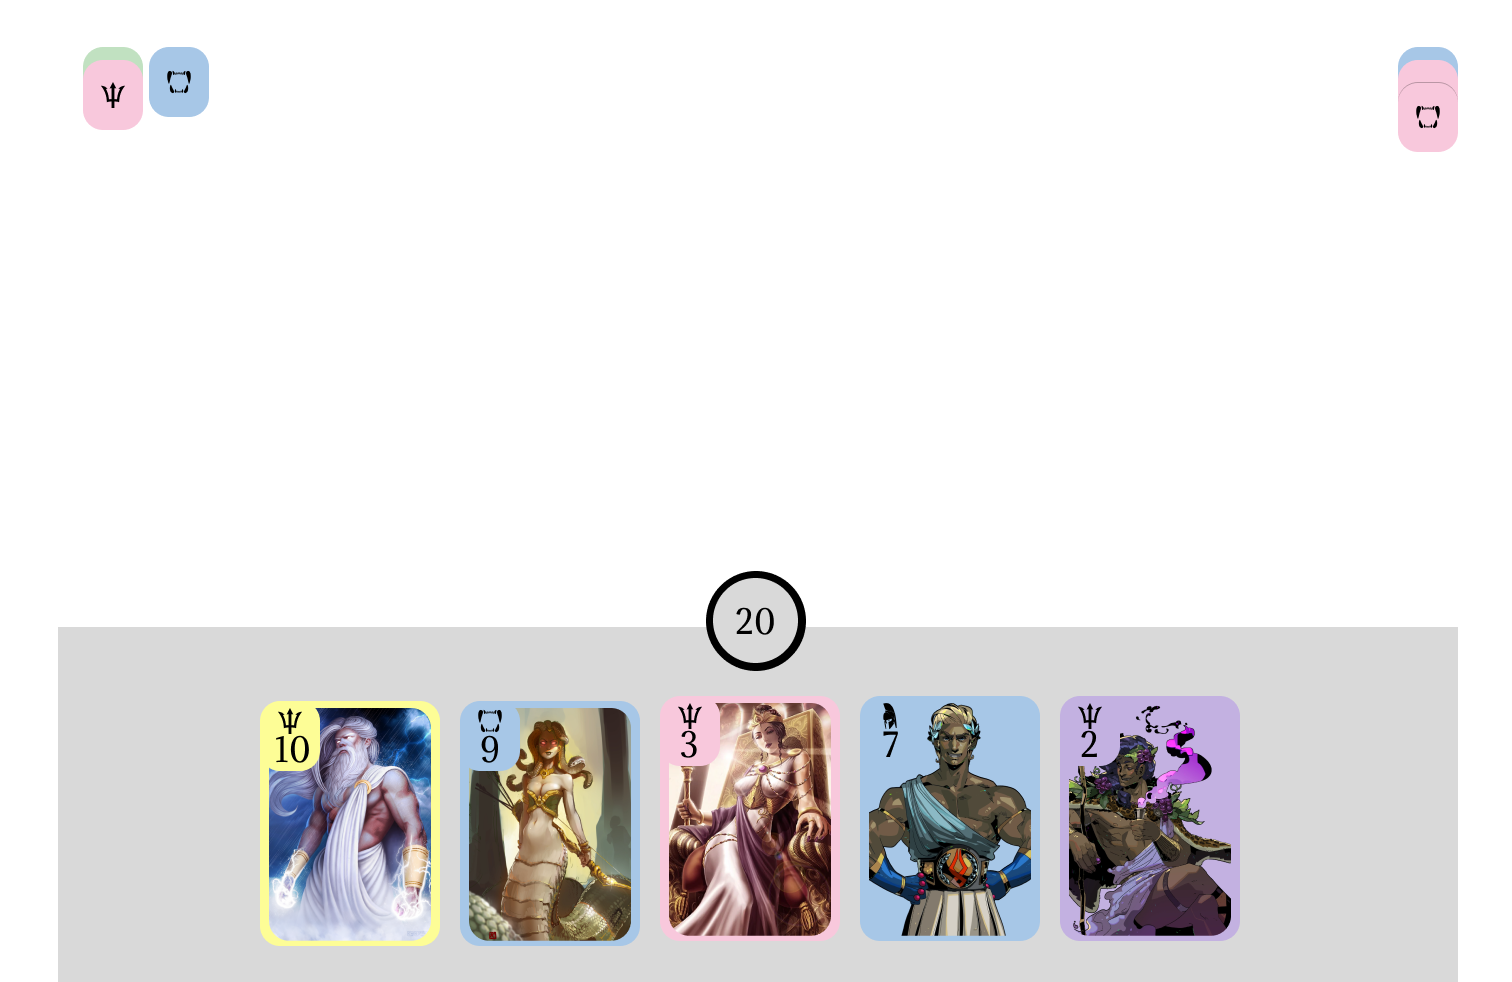
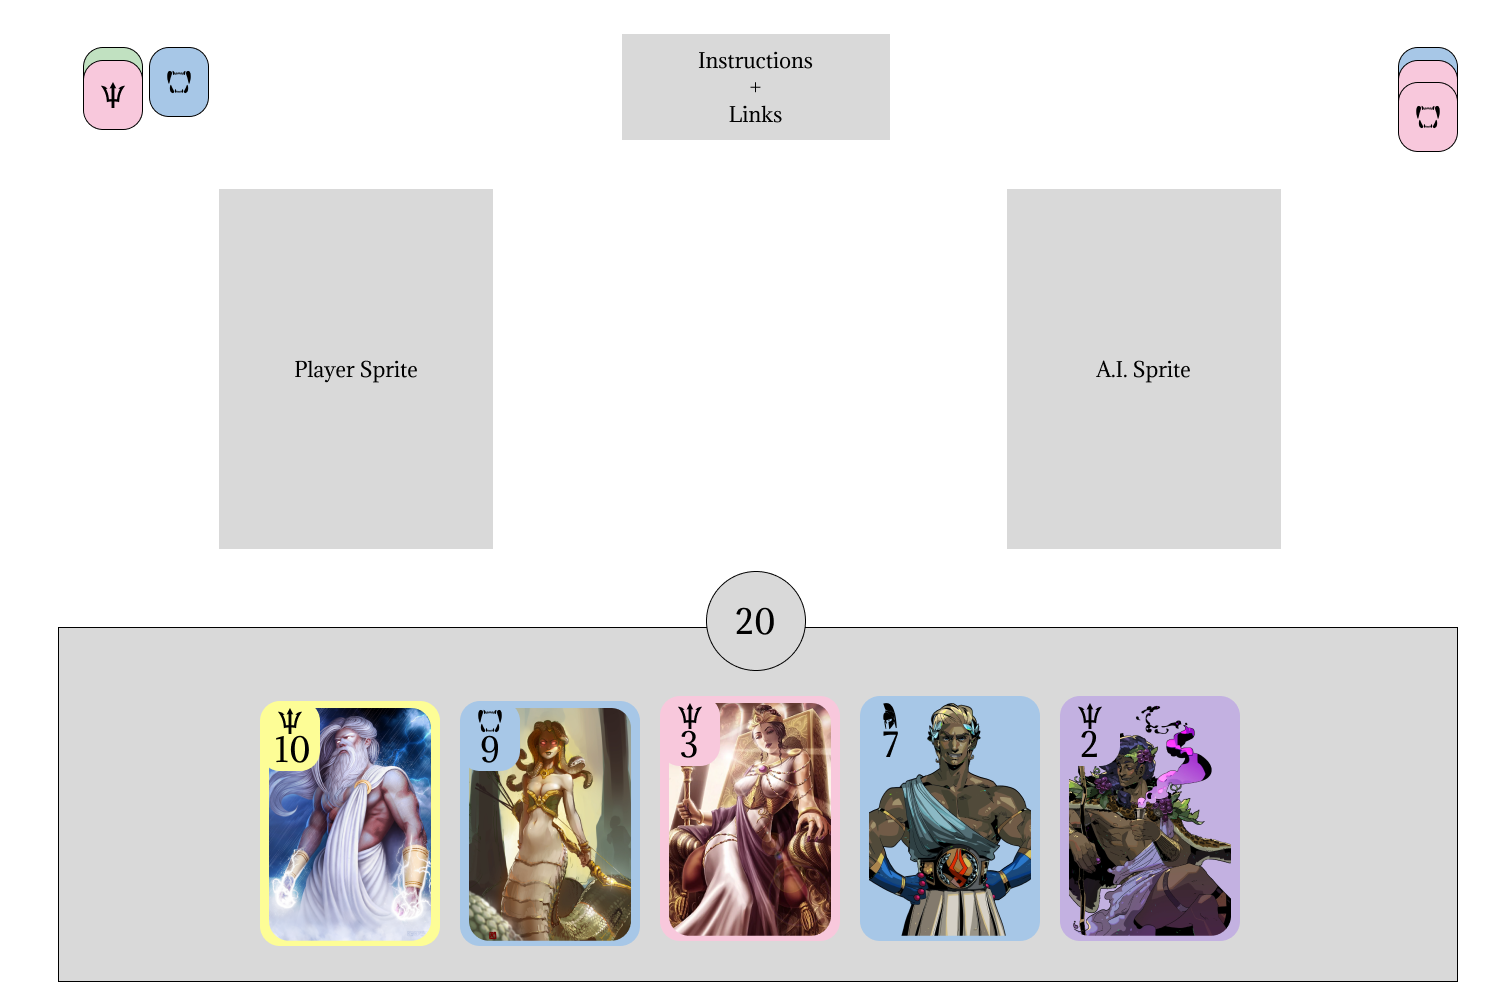
finished README proposal

diff --git a/README.md b/README.md
@@ -24,5 +24,14 @@ In addition, this project will include:
   * Background music
   
 ## Wireframes
+![alt text](./wireframe.png)
 
-  
+## Technologies, Libraries, APIs
+Greek Mythology Card-Jitsu will be made with Vanilla JavaScript through DOM Manipulation.
+
+## Implementation Timeline
+  * Friday Afternoon & Weekend: Develop game logic and functionality, along with simple A.I.
+  * Monday: Make HTML shell and set up DOM Manipulation
+  * Tuesday: Create decks for users and A.I. along with art associated with it, along with starting JavaScript and CSS animations
+  * Wednesday: Finish up animations
+  * Thursday Morning: Ensure game is demo-ready
